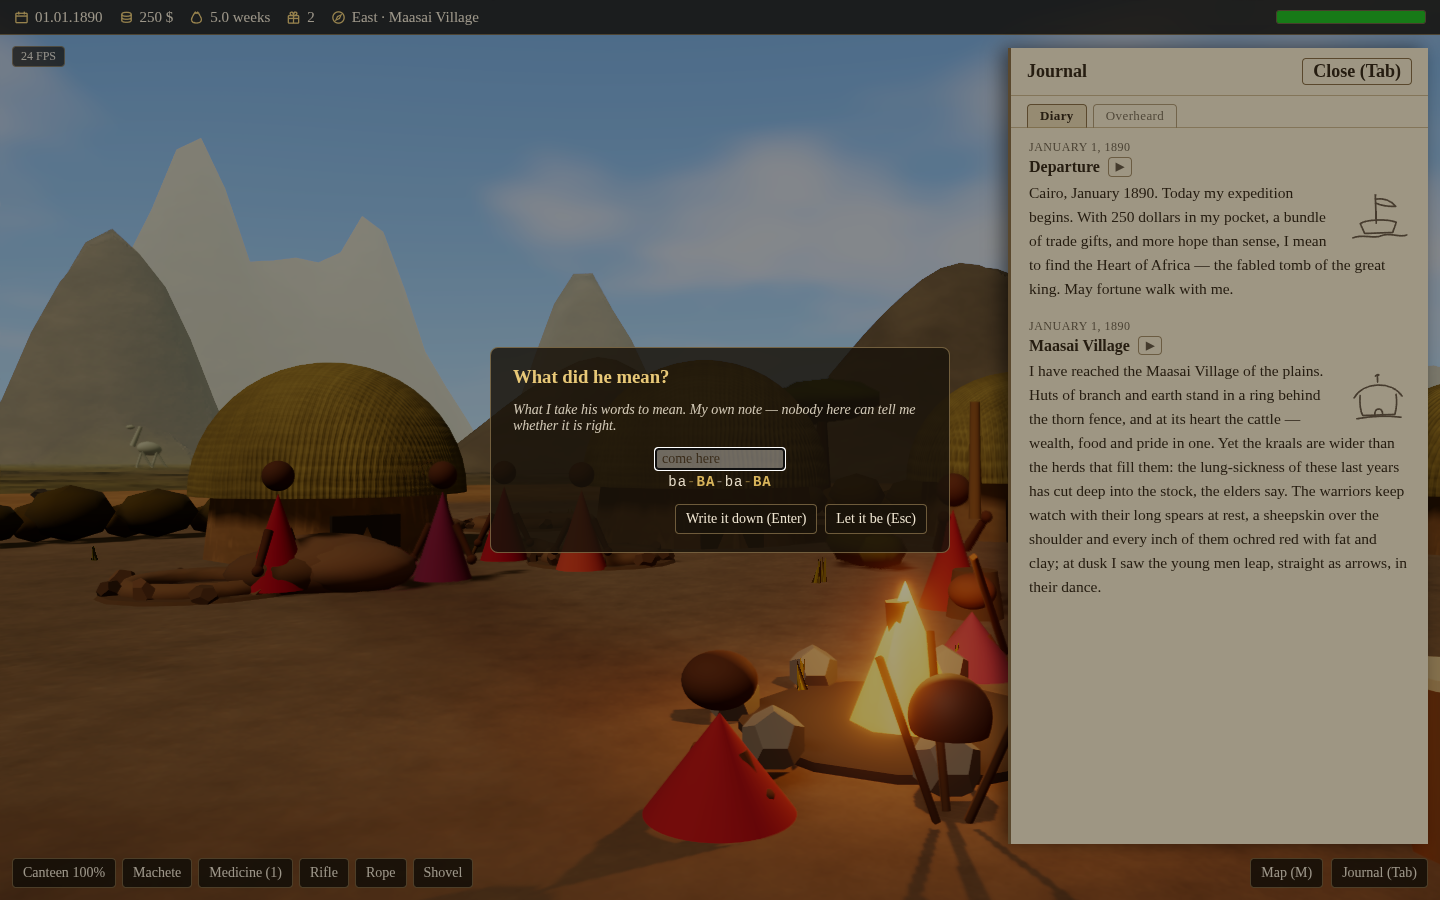
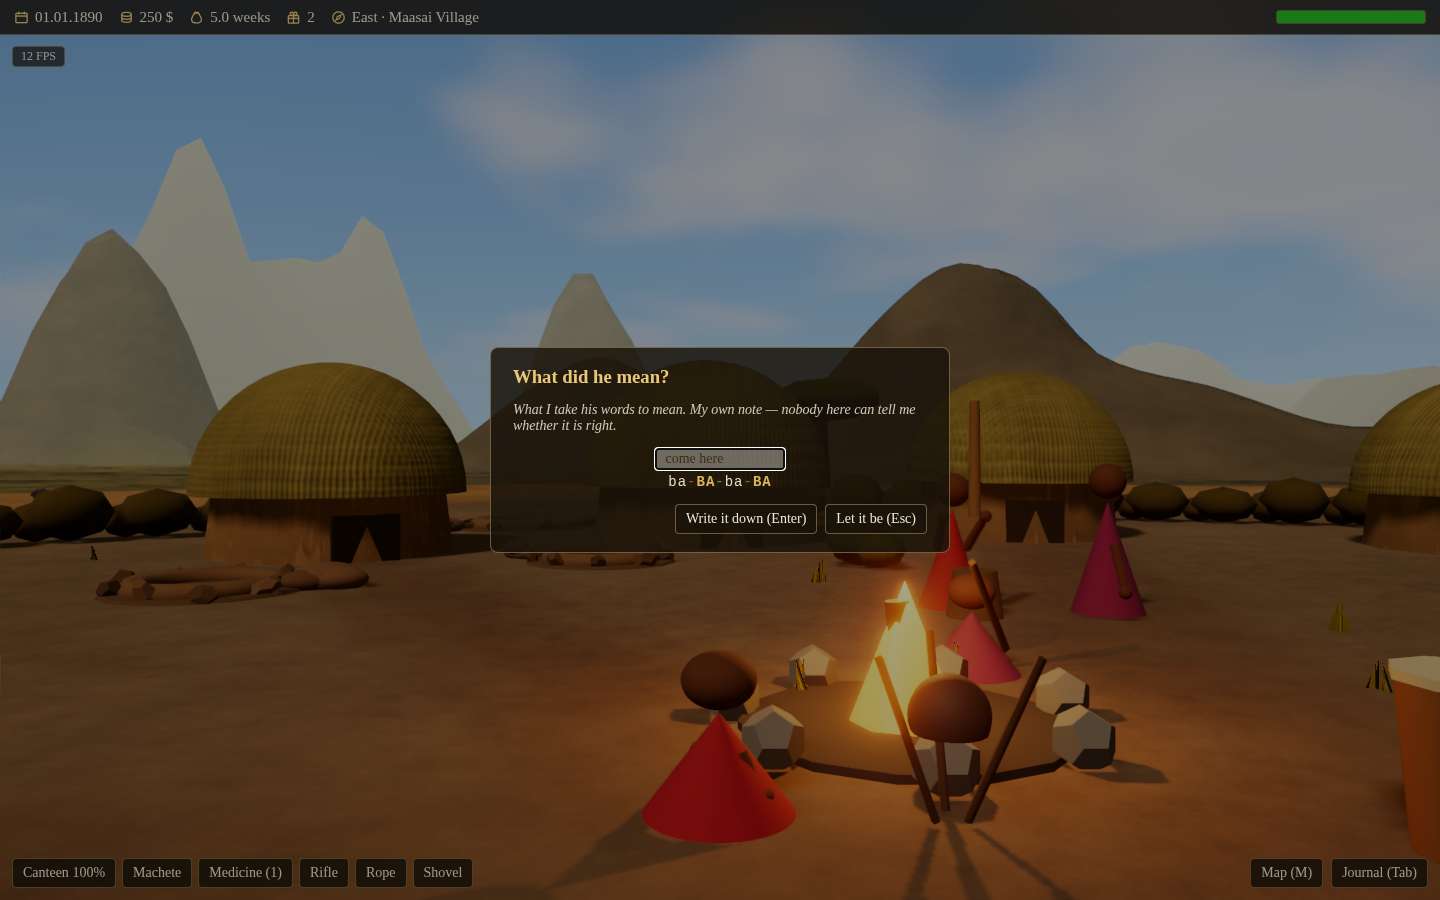
Keep the use key's own press out of the field it just opened
The guess dialog focuses its field the moment it appears, and React flushes a
discrete keydown synchronously — so the SPACE that opened the guess went on to
type itself into the field that had appeared under it, and every reading the
player wrote began with a blank. Measured in the settlement check: the field
read " come here".

onKeyPress can now take the press away from the browser once the game has acted
on it, and the settlement's use key does. Opt-in rather than blanket: Escape and
the F-keys keep browser behaviour a player relies on.

diff --git a/src/systems/input.test.ts b/src/systems/input.test.ts
@@ -67,6 +67,32 @@ describe('onKeyPress (design.md §17)', () => {
     release('KeyM')
   })
 
+  // Work-order 691: the use key opens a dialog whose field takes the keyboard
+  // at once, and the very press that opened it went on to type its own space
+  // into that field — every reading began with a blank.
+  it('takes the press away from the browser only when registered preventDefault', () => {
+    const consumed = vi.fn()
+    const plain = vi.fn()
+    const offConsumed = onKeyPress('Space', consumed, { preventDefault: true })
+    const offPlain = onKeyPress('KeyM', plain)
+    const taken = new KeyboardEvent('keydown', { code: 'Space', cancelable: true })
+    window.dispatchEvent(taken)
+    expect(consumed).toHaveBeenCalledTimes(1)
+    expect(taken.defaultPrevented).toBe(true)
+    const left = new KeyboardEvent('keydown', { code: 'KeyM', cancelable: true })
+    window.dispatchEvent(left)
+    expect(plain).toHaveBeenCalledTimes(1)
+    expect(left.defaultPrevented).toBe(false)
+    // A press the handler stands down on is left alone, whatever it registered.
+    const other = new KeyboardEvent('keydown', { code: 'KeyG', cancelable: true })
+    window.dispatchEvent(other)
+    expect(other.defaultPrevented).toBe(false)
+    offConsumed()
+    offPlain()
+    release('Space')
+    release('KeyM')
+  })
+
   it('ignores keydowns originating from a text input (debug-field guard)', () => {
     // input.ts guards only INPUT targets (the debug-menu fields); TEXTAREA and
     // SELECT are not handled by the source, so only INPUT is asserted here.

diff --git a/src/systems/input.ts b/src/systems/input.ts
@@ -77,6 +77,17 @@ export interface KeyPressOptions {
    * reaches the handler.
    */
   ignoreModified?: boolean
+  /**
+   * Take the press away from the browser once the game has acted on it
+   * (work-order point 691). The use key OPENS a dialog whose field takes the
+   * keyboard at once, and React flushes a discrete keydown synchronously — so
+   * the very press that opened the guess went on to type its own space into the
+   * field that had just appeared under it, and every reading began with a blank.
+   * A key the game consumed is the game's; it may not also reach what the game
+   * put on screen with it. Opt-in, because Escape and the F-keys keep browser
+   * behaviour a player relies on (leaving fullscreen, reloading).
+   */
+  preventDefault?: boolean
 }
 
 /** Register a keydown handler for a specific code; returns unsubscribe. */
@@ -84,7 +95,9 @@ export function onKeyPress(code: string, cb: () => void, options: KeyPressOption
   const handler = (e: KeyboardEvent) => {
     if (isTypingTarget(e)) return
     if (options.ignoreModified && (e.ctrlKey || e.altKey || e.metaKey)) return
-    if (e.code === code) cb()
+    if (e.code !== code) return
+    if (options.preventDefault) e.preventDefault()
+    cb()
   }
   window.addEventListener('keydown', handler)
   return () => window.removeEventListener('keydown', handler)

diff --git a/src/scenes/place/PlaceScene.tsx b/src/scenes/place/PlaceScene.tsx
@@ -2777,7 +2777,7 @@ export function PlaceScene() {
       useKeyPick.current = winner.key
       if (winner.payload.kind === 'interactive') openBuildingRef.current(winner.payload.interactive)
       else openSpeechGuessRef.current(winner.payload.label)
-    })
+    }, { preventDefault: true })
     return () => {
       off()
       setPrompt(null)
